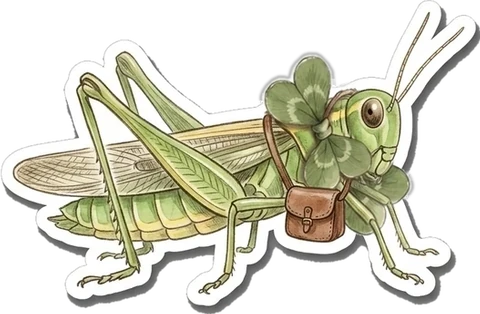
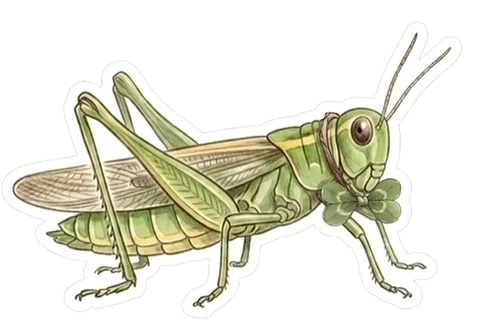
feat(world): repaint Bartholomew and make his satchel his first outfit
Bartholomew's brown leather satchel was painted into his base art, like the
other friends' signature pieces. His sitting sticker is repainted
satchel-free and his five outfits are repainted on the clean base. The
satchel becomes a back item with its own look, idle and hop, and a
standalone wardrobe sticker (wardrobe-suites/grasshopper/satchel.png),
listed first in suits.json and anchored in wardrobe-anchors.json;
export-wardrobe.py and export-looks.py regenerate wardrobe.json and
looks.json.

The idle and hop are drawn from the approved still with the shipped
gestures and poses, so his body stays the same from frame to frame. Every
outfit is painted on those. The idle cell grows from 562x380 to 592x420
and the hop cell from 321x346 to 421x406, with the feet and standing height
updated so he stays the same size on the path. The sitting stickers share a
new 480x319 canvas and his wardrobe anchors are moved onto it.

With the satchel, every friend now starts with an item of their own. The
wardrobe tests no longer assume a friend without one: they check that each
friend starts with one item and unlocks five more, and the grid and
take-off tests use the unlockable items.

diff --git a/HopTalesPackage/Tests/ContentTests/WardrobeTests.swift b/HopTalesPackage/Tests/ContentTests/WardrobeTests.swift
@@ -10,20 +10,15 @@ struct WardrobeTests {
     }
   }
 
-  @Test func everyFriendUnlocksFiveOfTheirWardrobeAndTheFirstSixStartWithAnother() {
+  @Test func everyFriendStartsWithOneItemAndUnlocksFiveMore() {
     #expect(WardrobeLibrary.all[.hare]?.count == 13)
-    #expect(WardrobeLibrary.all[.bunny]?.count == 9)
-    #expect(WardrobeLibrary.all[.frog]?.count == 9)
-    #expect(WardrobeLibrary.all[.crow]?.count == 9)
-    #expect(WardrobeLibrary.all[.cat]?.count == 9)
-    #expect(WardrobeLibrary.all[.crab]?.count == 9)
+    for friend in Friend.allCases where friend != .hare {
+      #expect(WardrobeLibrary.all[friend]?.count == 9, "\(friend)")
+    }
     for friend in Friend.allCases {
-      let starts = WardrobeLibrary.starting[friend] != nil
-      #expect(WardrobeLibrary.items(for: friend).count == (starts ? 6 : 5), "\(friend)")
+      #expect(WardrobeLibrary.starting[friend] != nil, "\(friend)")
+      #expect(WardrobeLibrary.items(for: friend).count == 6, "\(friend)")
       #expect(WardrobeLibrary.unlockable(for: friend).count == 5, "\(friend)")
-      if ![Friend.hare, .bunny, .frog, .crow, .cat, .crab].contains(friend) {
-        #expect(WardrobeLibrary.all[friend]?.count == 8, "\(friend)")
-      }
     }
   }
 
@@ -39,9 +34,10 @@ struct WardrobeTests {
 
   @Test func onlyUnlockedItemsCanBeWornAndOneItemPerSlot() throws {
     var progress = Progress(journey: Journey(starting: .grasshopper))
-    let items = WardrobeLibrary.items(for: .grasshopper)
+    let satchel = try #require(WardrobeLibrary.startingItem(for: .grasshopper))
+    let items = WardrobeLibrary.unlockable(for: .grasshopper)
     progress.wear(items[1], on: .grasshopper)
-    #expect(progress.outfit(for: .grasshopper).isEmpty)
+    #expect(progress.outfit(for: .grasshopper) == [satchel])
     progress.wear(items[0], on: .grasshopper)
     #expect(progress.outfit(for: .grasshopper) == [items[0]])
     progress.baskets[.grasshopper, default: Basket()].filled = 1
@@ -55,7 +51,8 @@ struct WardrobeTests {
     (Friend.bunny, "bow", Slot.head), (.hare, "scarf", .neck), (.frog, "neckerchief", .neck),
     (.crow, "knit-cap", .head),
     (.cat, "sage-collar", .neck),
-    (.crab, "sailor-kerchief", .neck)
+    (.crab, "sailor-kerchief", .neck),
+    (.grasshopper, "satchel", .back)
   ])
   func startingItemsAreWornUntilSomethingElseIsChosen(
     friend: Friend, id: String, slot: Slot
@@ -68,8 +65,6 @@ struct WardrobeTests {
     let fresh = Progress()
     #expect(fresh.isUnlocked(item, for: friend))
     #expect(fresh.outfit(for: friend) == [item])
-    #expect(WardrobeLibrary.startingItem(for: .grasshopper) == nil)
-    #expect(Progress(journey: Journey(starting: .grasshopper)).outfit(for: .grasshopper).isEmpty)
   }
 
   @Test func startingItemsLeaveTheUnlockOrderAlone() throws {

diff --git a/HopTalesPackage/Tests/AppFeatureTests/WardrobeTests.swift b/HopTalesPackage/Tests/AppFeatureTests/WardrobeTests.swift
@@ -24,8 +24,8 @@ struct WardrobeFeatureTests {
     } changes: {
       $0.progress = Self.progress
     }
-    let items = WardrobeLibrary.items(for: .grasshopper)
-    #expect(store.state.items == items)
+    #expect(store.state.items == WardrobeLibrary.items(for: .grasshopper))
+    let items = WardrobeLibrary.unlockable(for: .grasshopper)
 
     store.send(.itemTapped(items[0])) {
       $0.progress.outfits[.grasshopper] = [items[0].slot: items[0].id]
@@ -45,7 +45,7 @@ struct WardrobeFeatureTests {
     } changes: {
       $0.progress = Self.progress
     }
-    let item = WardrobeLibrary.items(for: .grasshopper)[0]
+    let item = WardrobeLibrary.unlockable(for: .grasshopper)[0]
 
     store.send(.itemTapped(item)) { $0.progress.outfits[.grasshopper] = [item.slot: item.id] }
     store.send(.itemTapped(item)) { $0.progress.outfits[.grasshopper] = [:] }
@@ -190,6 +190,27 @@ struct WardrobeFeatureTests {
     #expect(saved.value.outfit(for: .crab) == [cap])
     store.send(.justMeTapped) { $0.progress.outfits[.crab] = [:] }
     #expect(saved.value.outfit(for: .crab).isEmpty)
+    await store.dismount()
+  }
+
+  @Test func bartholomewWearsHisSatchelUntilSomethingElseIsChosen() async throws {
+    let fresh = Content.Progress(journey: Journey(starting: .grasshopper))
+    let saved = LockIsolated(fresh)
+    let store = TestStore(initialState: Wardrobe.State(friend: .grasshopper)) {
+      Wardrobe()
+        .dependency(ProgressStore(load: { saved.value }, save: { saved.setValue($0) }))
+    } changes: {
+      $0.progress = fresh
+    }
+    let items = WardrobeLibrary.items(for: .grasshopper)
+    let satchel = try #require(items.first { $0.id == "satchel" })
+    let cap = try #require(items.first { $0.id == "acorn-cap" })
+    #expect(store.state.outfit == [satchel])
+
+    store.send(.itemTapped(cap)) { $0.progress.outfits[.grasshopper] = [.head: cap.id] }
+    #expect(saved.value.outfit(for: .grasshopper) == [cap])
+    store.send(.justMeTapped) { $0.progress.outfits[.grasshopper] = [:] }
+    #expect(saved.value.outfit(for: .grasshopper).isEmpty)
     await store.dismount()
   }
 }

diff --git a/HopTalesPackage/Sources/Content/Wardrobe.swift b/HopTalesPackage/Sources/Content/Wardrobe.swift
@@ -66,13 +66,13 @@ public enum WardrobeLibrary {
       "sailor-kerchief", "sailor-cap", "captain-hat", "diving-mask", "life-ring", "claw-mittens"
     ],
     .grasshopper: [
-      "acorn-cap", "antenna-poms", "explorer-goggles", "clover-bowtie", "ladybird-cape"
+      "satchel", "acorn-cap", "antenna-poms", "explorer-goggles", "clover-bowtie", "ladybird-cape"
     ]
   ]
 
   public static let starting: [Friend: String] = [
     .bunny: "bow", .hare: "scarf", .frog: "neckerchief", .crow: "knit-cap",
-    .cat: "sage-collar", .crab: "sailor-kerchief"
+    .cat: "sage-collar", .crab: "sailor-kerchief", .grasshopper: "satchel"
   ]
 
   @TaskLocal public static var painted: [Friend: Set<String>] = {

diff --git a/HopTalesPackage/Sources/World/HareArt.swift b/HopTalesPackage/Sources/World/HareArt.swift
@@ -111,12 +111,12 @@ public struct SpriteSheet: Equatable, Sendable {
     ),
     .grasshopper: (
       .idle(
-        "grasshopper-idle-frames", cell: CGSize(width: 562, height: 380),
-        feet: CGPoint(x: 245, y: 363)
+        "grasshopper-idle-frames", cell: CGSize(width: 592, height: 420),
+        feet: CGPoint(x: 255, y: 403)
       ),
       .hop(
-        "grasshopper-hop", cell: CGSize(width: 321, height: 346), feet: CGPoint(x: 137, y: 336),
-        standing: 170
+        "grasshopper-hop", cell: CGSize(width: 421, height: 406), feet: CGPoint(x: 187, y: 396),
+        standing: 166
       )
     )
   ]
